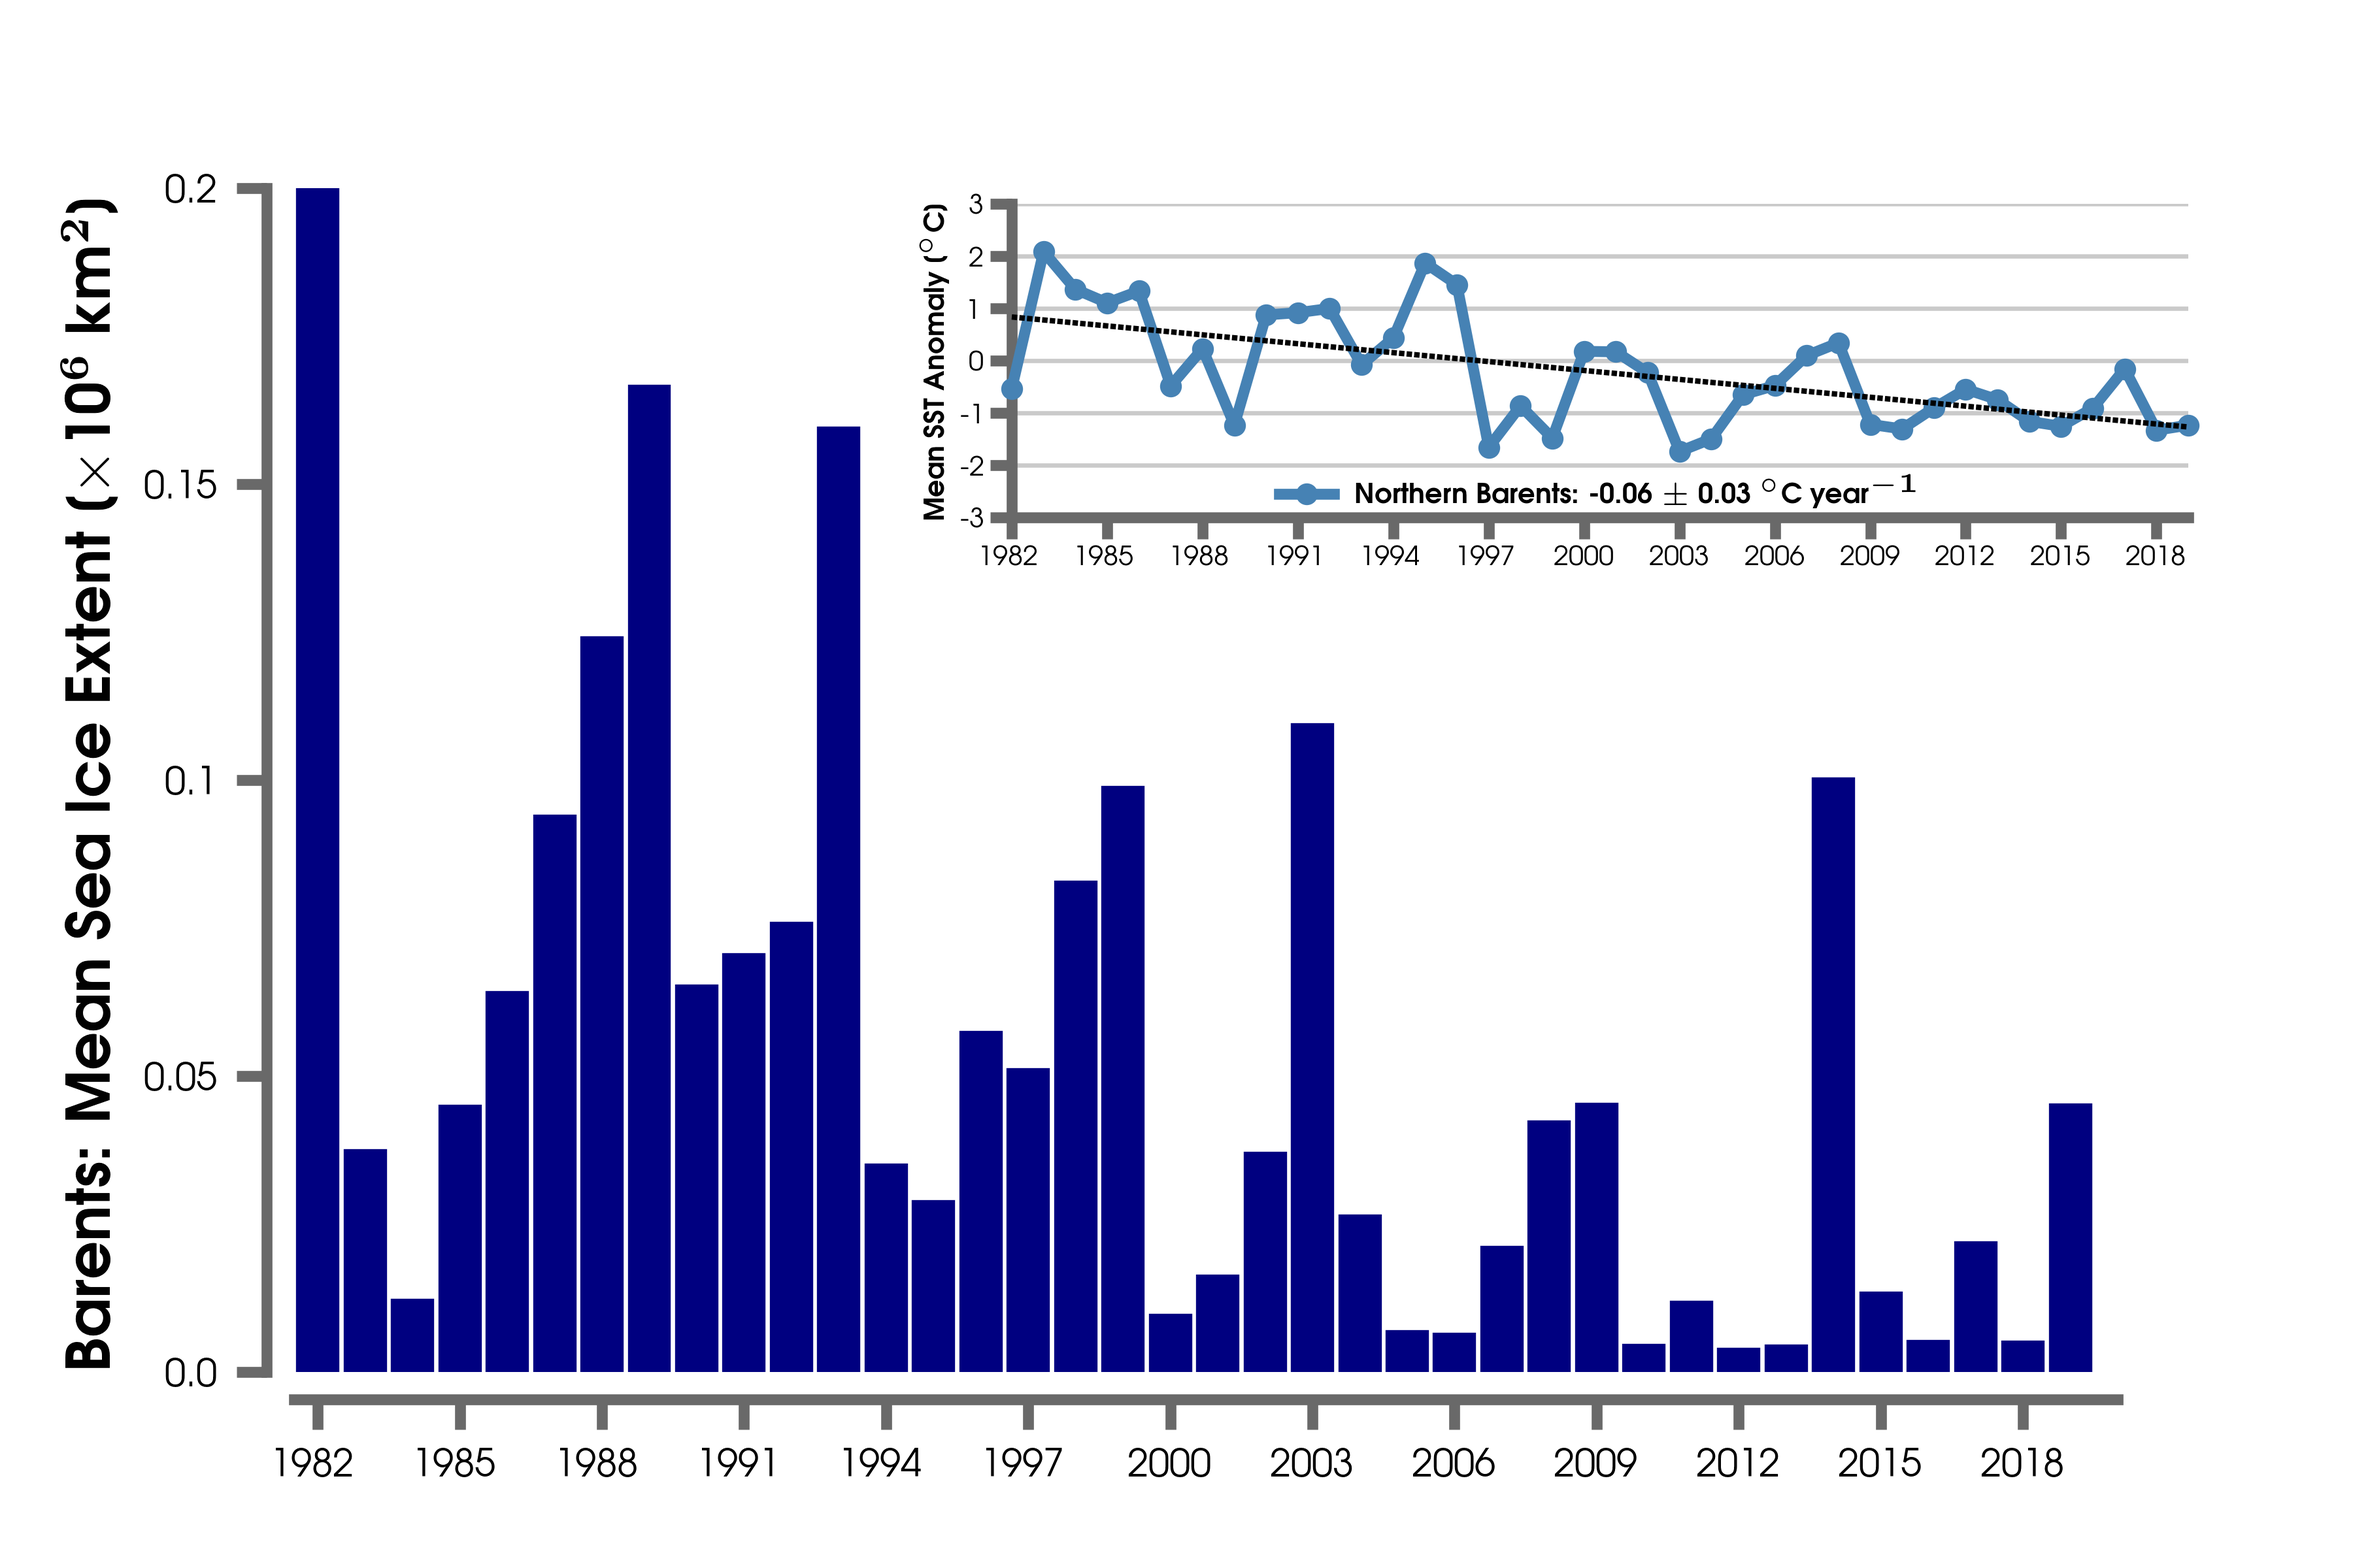
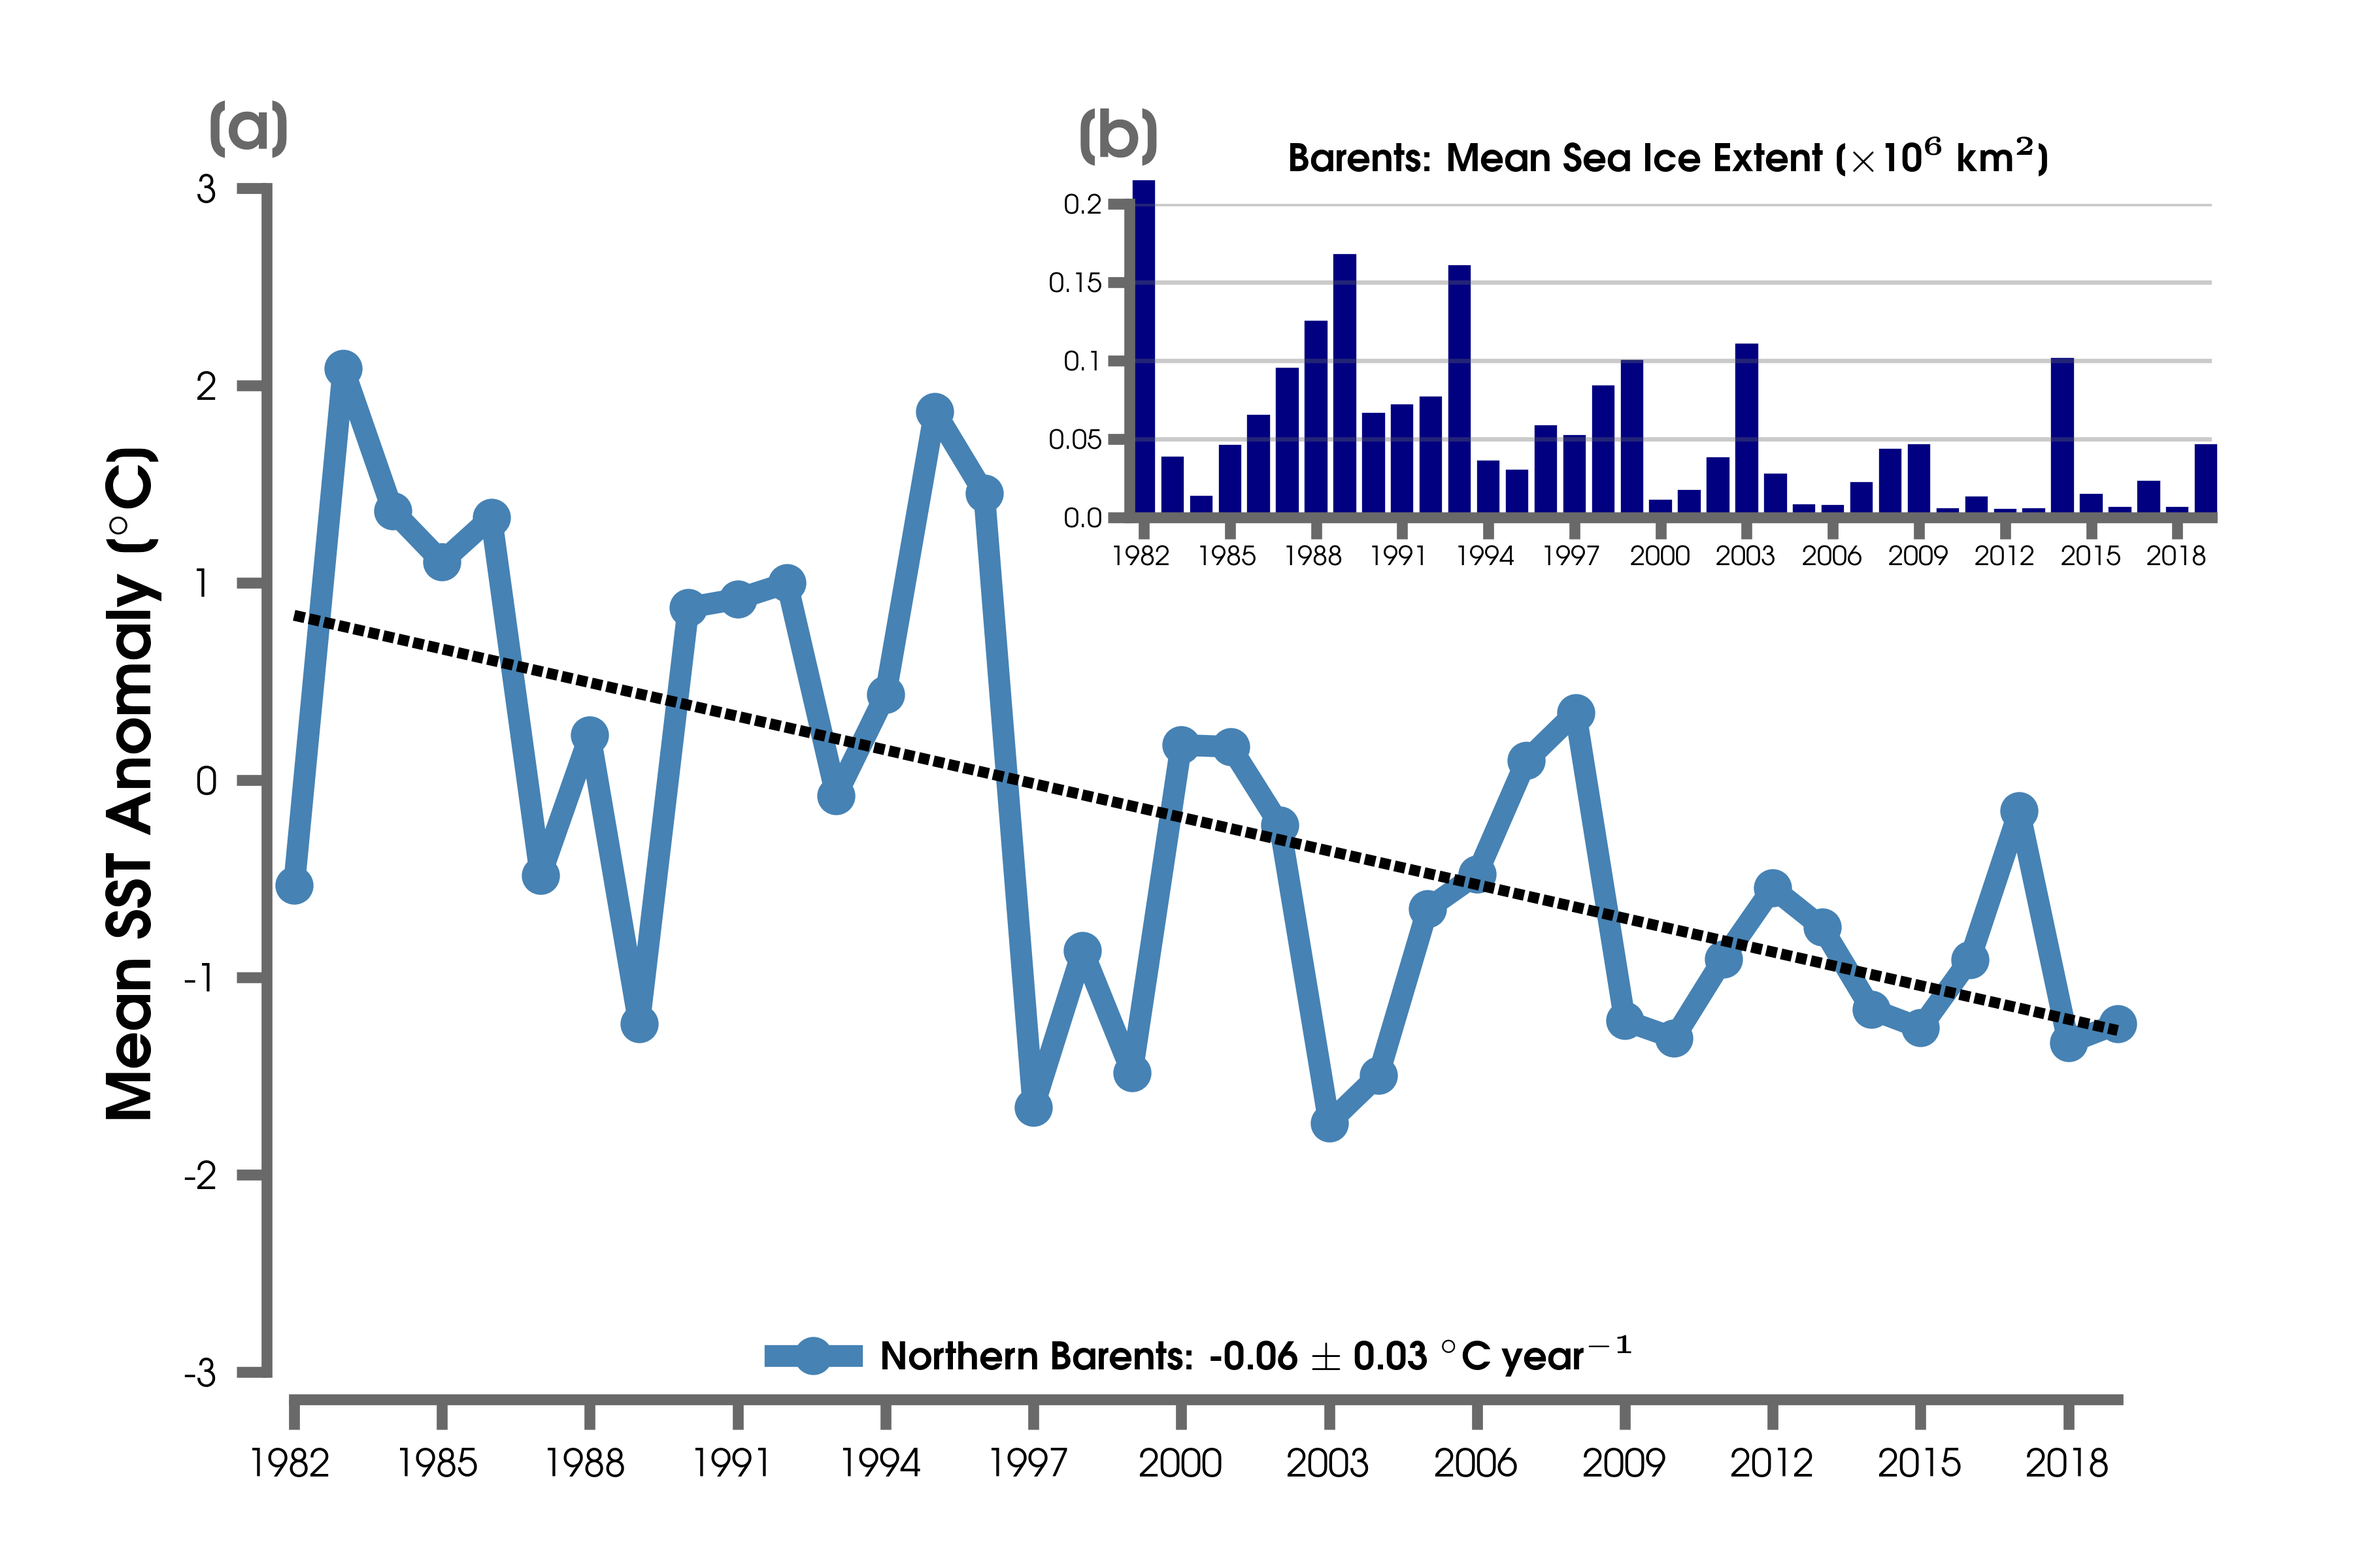
v1 updates

diff --git a/BAMS_SOTC/2019/plot_SST_TimeSeries_Barents.py b/BAMS_SOTC/2019/plot_SST_TimeSeries_Barents.py
@@ -29,8 +29,8 @@ lineb = slopeb*years + interceptb
 confb = std_errb*1.96
 
 ### Read in sea ice data
-#extb,nsidc = ICEALL.calcSIE(15,'north_barents',monq)
-extb = ICEREG.read_RegionalSIE('Barents',monq)
+extb,nsidc = ICEALL.calcSIE(15,'north_barents',monq)
+#extb = ICEREG.read_RegionalSIE('Barents',monq)
 
 ###############################################################################
 ###############################################################################
@@ -67,21 +67,27 @@ ax.spines['bottom'].set_linewidth(2)
 ax.spines['left'].set_linewidth(2) 
 ax.tick_params('both',length=5.5,width=2,which='major',color='dimgrey')     
 
-rects = plt.bar(np.arange(0.5,38.5,1),extb,color='navy',
-                edgecolor='navy')
+plt.plot(years,ba,linewidth=4,color='steelblue',marker='o',
+         markersize=6,clip_on=False,
+         label = r'\textbf{Northern Barents: %s $\bf{\pm}$ %s $\bf{^{\circ}}$C year$\bf{^{-1}}$}' % \
+         (np.round(slopeb,2),np.round(confb,2)),zorder=11)
+plt.plot(years,lineb,linewidth=2,color='k',linestyle='--',
+         dashes=(1,0.4),clip_on=False,zorder=12)
 
-ylabels = map(str,np.arange(0,2.3,0.2))
-plt.xticks(np.arange(0.5,46.5,3),map(str,np.arange(1982,2025,3)),
+l = plt.legend(fontsize=7,loc='upper center',bbox_to_anchor=(0.5,0.06),
+               ncol=1,frameon=False,fancybox=True,shadow=False)
+
+plt.xticks(np.arange(1982,2020,3),map(str,np.arange(1982,2020,3)),
            size=7)
-plt.yticks(np.arange(0,2.1,0.05),map(str,np.round(np.arange(0,2.05,0.05),2)),
+plt.yticks(np.arange(-10,11,1),map(str,np.arange(-10,11,1)),
            size=7)
-plt.ylim([0,0.2])
-plt.xlim([0,38.5])
-plt.ylabel(r'\textbf{Barents: Mean Sea Ice Extent [$\bf{\times}$10$\bf{^{6}}$\ \textbf{km}$\bf{^2}$]}',
-           fontsize=11,alpha=1,color='k') 
+plt.xlim([1982,2019])
+plt.ylim([-3,3])
+plt.ylabel(r'\textbf{Mean SST Anomaly [$^\circ$C]}',fontsize=11,color='k')
+plt.text(1980.3,3.20,r'\textbf{[a]}',fontsize=12,color='dimgrey')
         
 ################################################################################
-a = plt.axes([.43, .67, .5, .2])
+a = plt.axes([.48, .67, .46, .2])
 
 #adjust_spines(a, ['left', 'bottom'])
 a.spines['top'].set_color('none')
@@ -93,26 +99,21 @@ a.spines['right'].set_linewidth(0)
 a.spines['bottom'].set_linewidth(2)
 a.tick_params('both',length=4,width=2,which='major',color='dimgrey')
 
-plt.plot(years,ba,linewidth=2,color='steelblue',marker='o',
-         markersize=3,clip_on=False,
-         label = r'\textbf{Northern Barents: %s $\bf{\pm}$ %s $\bf{^{\circ}}$C year$\bf{^{-1}}$}' % \
-         (np.round(slopeb,2),np.round(confb,2)),zorder=11)
-plt.plot(years,lineb,linewidth=1,color='k',linestyle='--',
-         dashes=(1,0.4),clip_on=False,zorder=12)
+rects = plt.bar(np.arange(0.5,38.5,1),extb,color='navy',
+                edgecolor='navy',width=0.6,clip_on=False)
 
-l = plt.legend(fontsize=5,loc='upper center',bbox_to_anchor=(0.5,0.215),
-               ncol=1,frameon=False,fancybox=True,shadow=False)
-
+ylabels = map(str,np.arange(0,2.3,0.2))
+plt.xticks(np.arange(0.5,46.5,3),map(str,np.arange(1982,2025,3)),
+           size=5)
+plt.yticks(np.arange(0,2.1,0.05),map(str,np.round(np.arange(0,2.05,0.05),2)),
+           size=5)
+plt.ylim([0,0.2])
+plt.xlim([0,37.7])
 a.yaxis.grid(zorder=1,color='dimgrey',alpha=0.35)
-plt.xticks(np.arange(1982,2020,3),map(str,np.arange(1982,2020,3)),
-           size=5)
-plt.yticks(np.arange(-10,11,1),map(str,np.arange(-10,11,1)),
-           size=5)
-plt.xlim([1982,2019])
-plt.ylim([-3,3])
 a.tick_params(axis='x', which='major', pad=1)
 a.tick_params(axis='y', which='major', pad=1)
-plt.ylabel(r'\textbf{Mean SST Anomaly [$^\circ$C]}',fontsize=5,color='k',
-                     labelpad=2)
+plt.title(r'\textbf{Northern Barents: Mean Sea Ice Extent [$\bf{\times}$10$\bf{^{6}}$\ \textbf{km}$\bf{^2}$]}',
+           fontsize=7,alpha=1,color='k') 
+plt.text(-1.7,0.23,r'\textbf{[b]}',fontsize=12,color='dimgrey')
 
-plt.savefig(directoryfigure + 'SST_TimeSeries_%s_Barents.png' % month,dpi = 600)
+plt.savefig(directoryfigure + 'SST_TimeSeries_%s_NorthernBarents.png' % month,dpi = 600)

diff --git a/BAMS_SOTC/2019/plot_SST_TimeSeries_3.py b/BAMS_SOTC/2019/plot_SST_TimeSeries_3.py
@@ -98,7 +98,7 @@ plt.text(1982,0.94,r'\textbf{[a]}',fontsize=12,color='dimgrey')
 plt.ylabel(r'\textbf{Mean SST Anomaly [$^\circ$C]}',fontsize=12,color='k')
 
 ###############################################################################
-ax2 = fig.add_subplot(gs[0,1])
+ax2 = fig.add_subplot(gs[1,1])
 adjust_spines(ax2, ['left', 'bottom'])
 ax2.spines['top'].set_color('none')
 ax2.spines['right'].set_color('w')
@@ -129,7 +129,7 @@ plt.ylim([-3,3])
 plt.text(1982,2.5,r'\textbf{[b]}',fontsize=12,color='dimgrey')
 
 ###############################################################################
-ax3 = fig.add_subplot(gs[1,1])
+ax3 = fig.add_subplot(gs[0,1])
 adjust_spines(ax3, ['left', 'bottom'])
 ax3.spines['top'].set_color('none')
 ax3.spines['right'].set_color('w')
